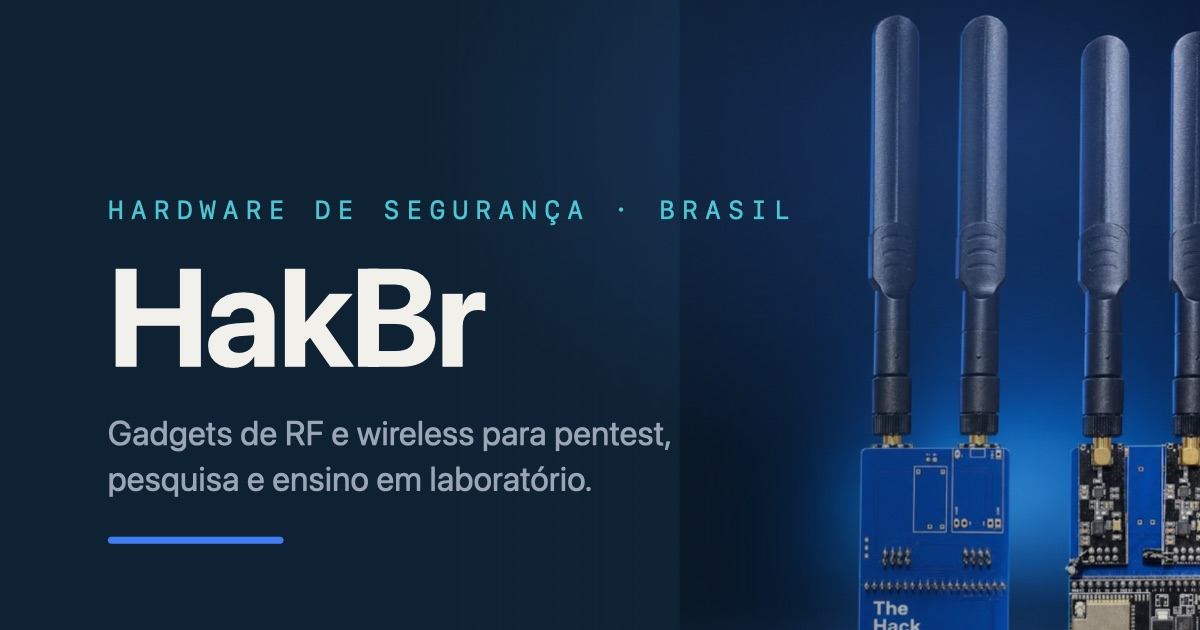
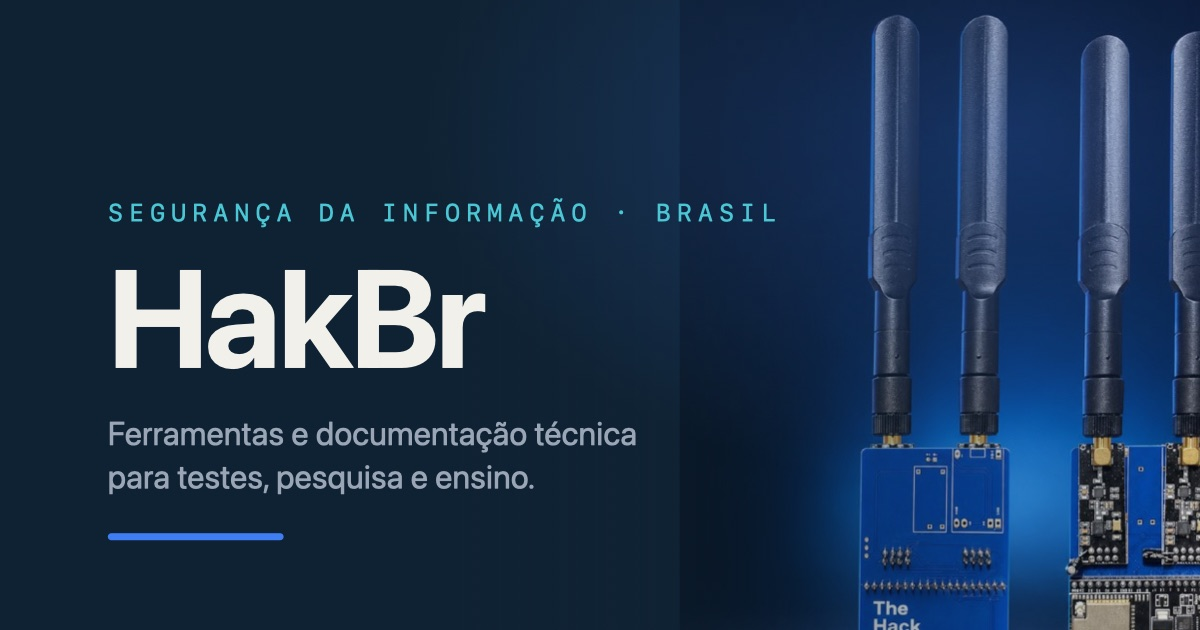
Reposiciona o hero do HakBr — sem enquadrar como marca de gadgets
Gadget é foco da linha The Hack Lab, não do HakBr. Hero da home passa
a: eyebrow "Segurança da informação · Brasil"; lede "Segurança da
informação, feita no Brasil. Ferramentas e documentação técnica para
quem trabalha com testes, pesquisa e ensino." Meta/OG e og.jpg
atualizados no mesmo tom.

Claude-Session: https://claude.ai/code/session_01APUaGRkFyDVftd1Z4EipGB

diff --git a/index.html b/index.html
@@ -4,11 +4,11 @@
 <meta charset="UTF-8">
 <meta name="viewport" content="width=device-width, initial-scale=1.0">
 <title>HakBr</title>
-<meta name="description" content="HakBr — gadgets de segurança da informação projetados e montados no Brasil. Ferramentas de RF e wireless para pentest, pesquisa e ensino.">
+<meta name="description" content="HakBr — segurança da informação, feita no Brasil. Ferramentas e documentação técnica para quem trabalha com testes, pesquisa e ensino.">
 <meta property="og:type" content="website">
 <meta property="og:site_name" content="HakBr">
-<meta property="og:title" content="HakBr — gadgets de segurança da informação">
-<meta property="og:description" content="Gadgets de RF e wireless projetados e montados no Brasil, para pentest, pesquisa e ensino.">
+<meta property="og:title" content="HakBr — segurança da informação, do Brasil">
+<meta property="og:description" content="Ferramentas e documentação técnica para quem trabalha com testes, pesquisa e ensino.">
 <meta property="og:url" content="https://hakbr.com.br/">
 <meta property="og:image" content="https://hakbr.com.br/assets/og.jpg">
 <meta property="og:image:width" content="1200">
@@ -35,9 +35,9 @@
 <main>
   <section class="section" style="padding-top: 88px; padding-bottom: 72px;">
     <div class="wrap" style="max-width:760px;">
-      <p class="eyebrow">Hardware de segurança · Brasil</p>
+      <p class="eyebrow">Segurança da informação · Brasil</p>
       <h1>HakBr</h1>
-      <p class="lede">Gadgets de segurança da informação projetados e montados no Brasil — ferramentas de RF e wireless para pentest, pesquisa e ensino em laboratório.</p>
+      <p class="lede">Segurança da informação, feita no Brasil. Ferramentas e documentação técnica para quem trabalha com testes, pesquisa e ensino.</p>
       <div class="hero-cta">
         <a class="btn" href="thehacklab/docs/">Ver o Eclipse →</a>
         <a class="btn btn--ghost" href="#produtos">Todos os gadgets</a>
